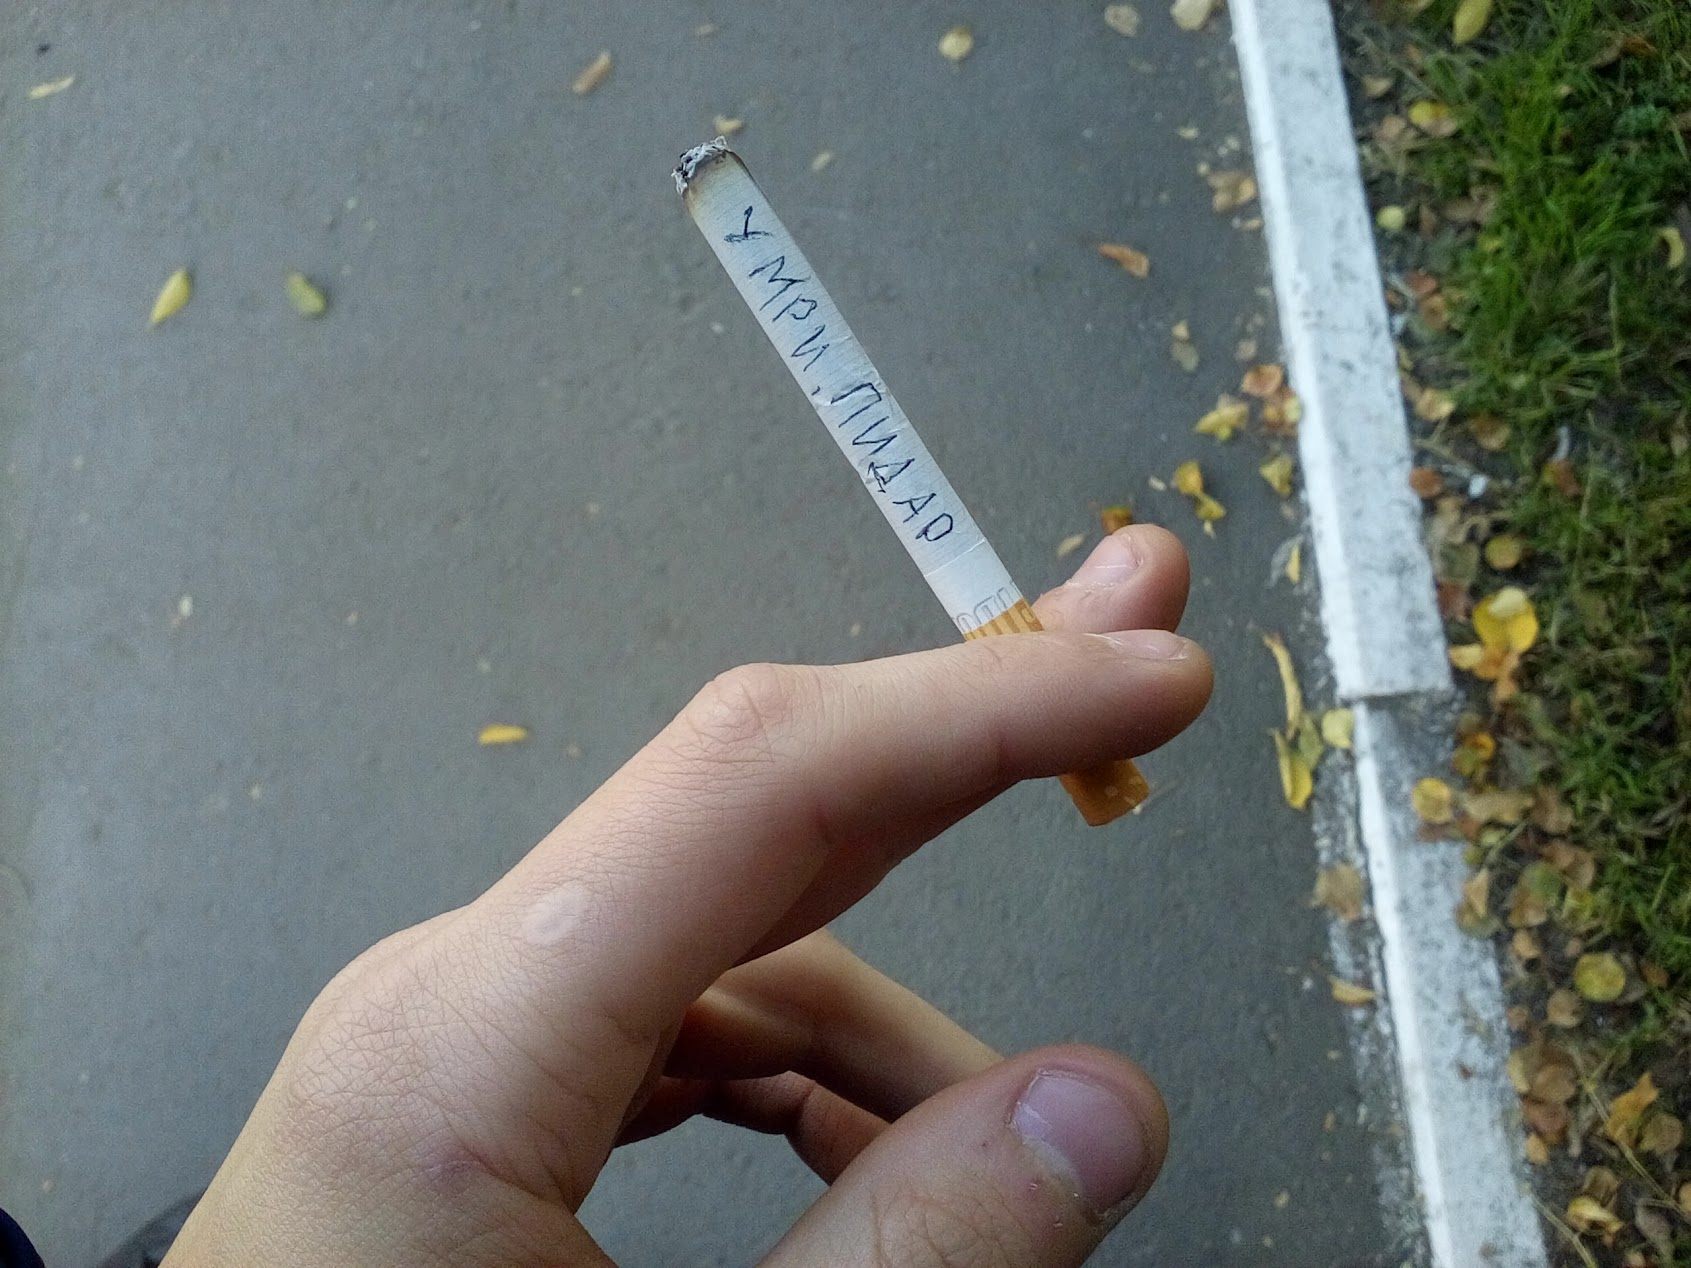
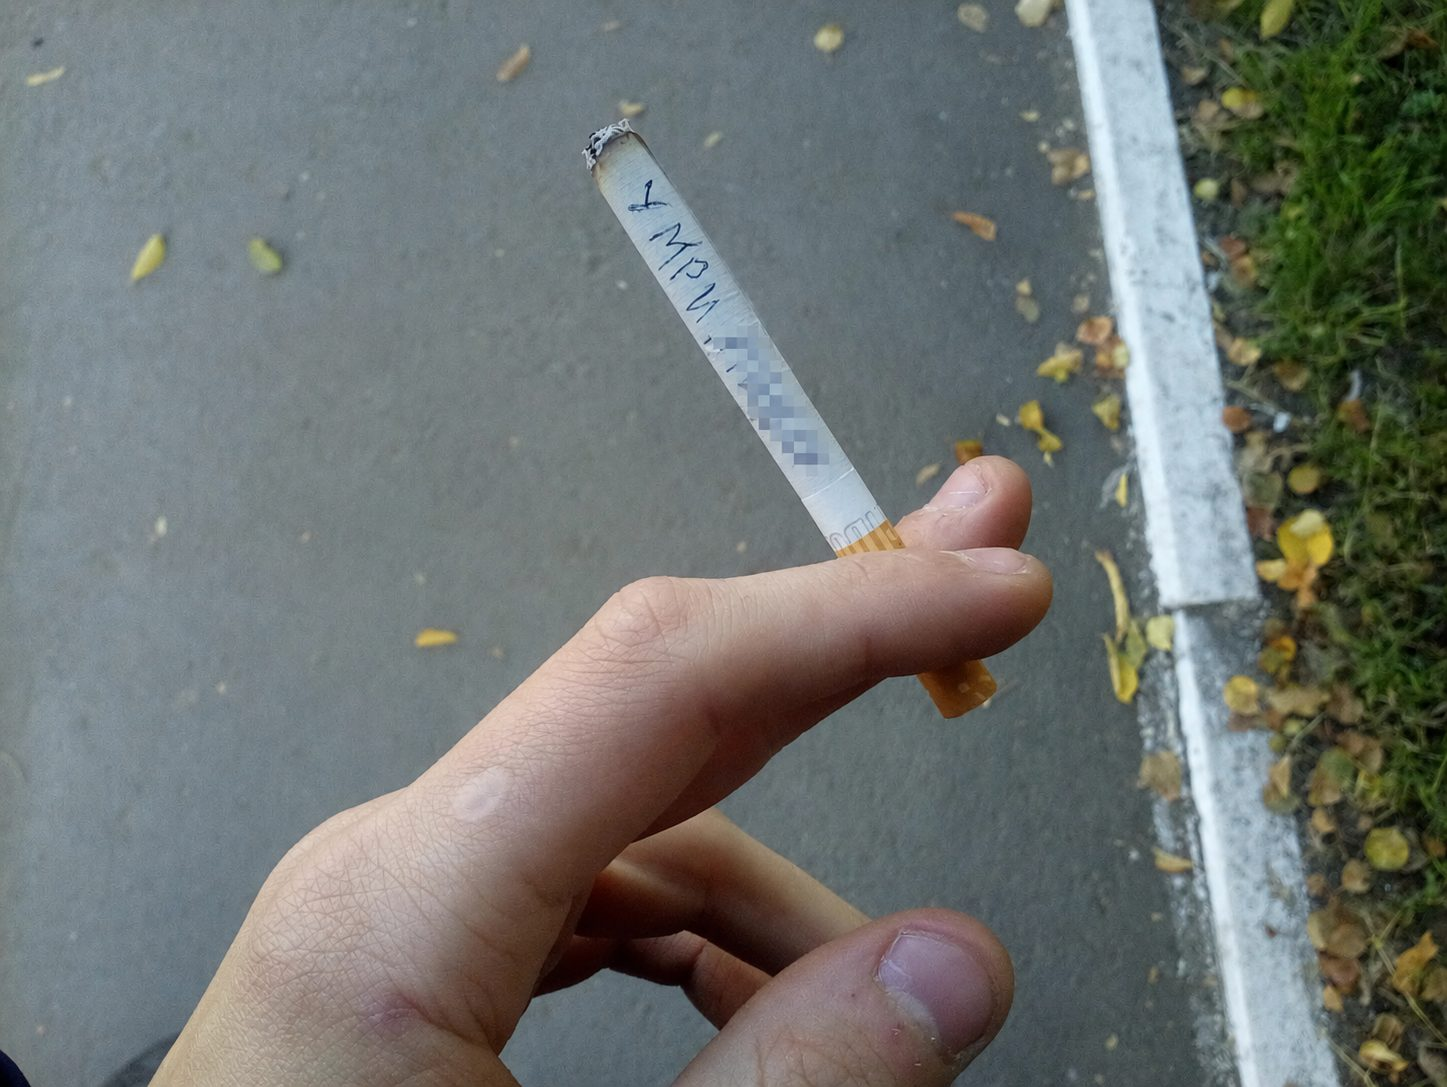
feat(23): redact the inscription on the cover photograph itself
Redacting the alternative text left the slur legible to anyone who looked at
the image, which is where it actually is. The word is covered on the
photograph now, and the alt names what remains readable and marks the rest as
withheld: «УМРИ, [вымарано оскорбление]».

The cover is only ever fetched as og:image and twitter:image, so the replaced
file is re-encoded down from 2.2MB to 188KB at the same dimensions rather than
shipping a near-lossless export to preview scrapers.

The word is covered by pixelation, which the redaction rulebook classes as
visual censorship rather than removal — it asks for a solid mask, a crop or
deletion when the carrier is the risk itself. The owner chose pixelation
knowingly; data/redactions.yaml records the deviation so a later pass does not
raise it again.

diff --git a/content/creativity/23.md b/content/creativity/23.md
@@ -7,7 +7,7 @@ lastmod: 2022-11-03
 authors: ["batyshkaLenin"]
 creative_type: "poem"
 cover: "/assets/creativity/23/die-asshole.jpg"
-cover_alt: "Рука держит сигарету красного Marlboro с оскорбительной надписью ручкой, вымаранной в этом описании"
+cover_alt: "Рука держит сигарету красного Marlboro с надписью ручкой: «УМРИ, [вымарано оскорбление]»"
 draft: false
 uid: "https://alexandr-sidorenko.me/creativity/23"
 ---
